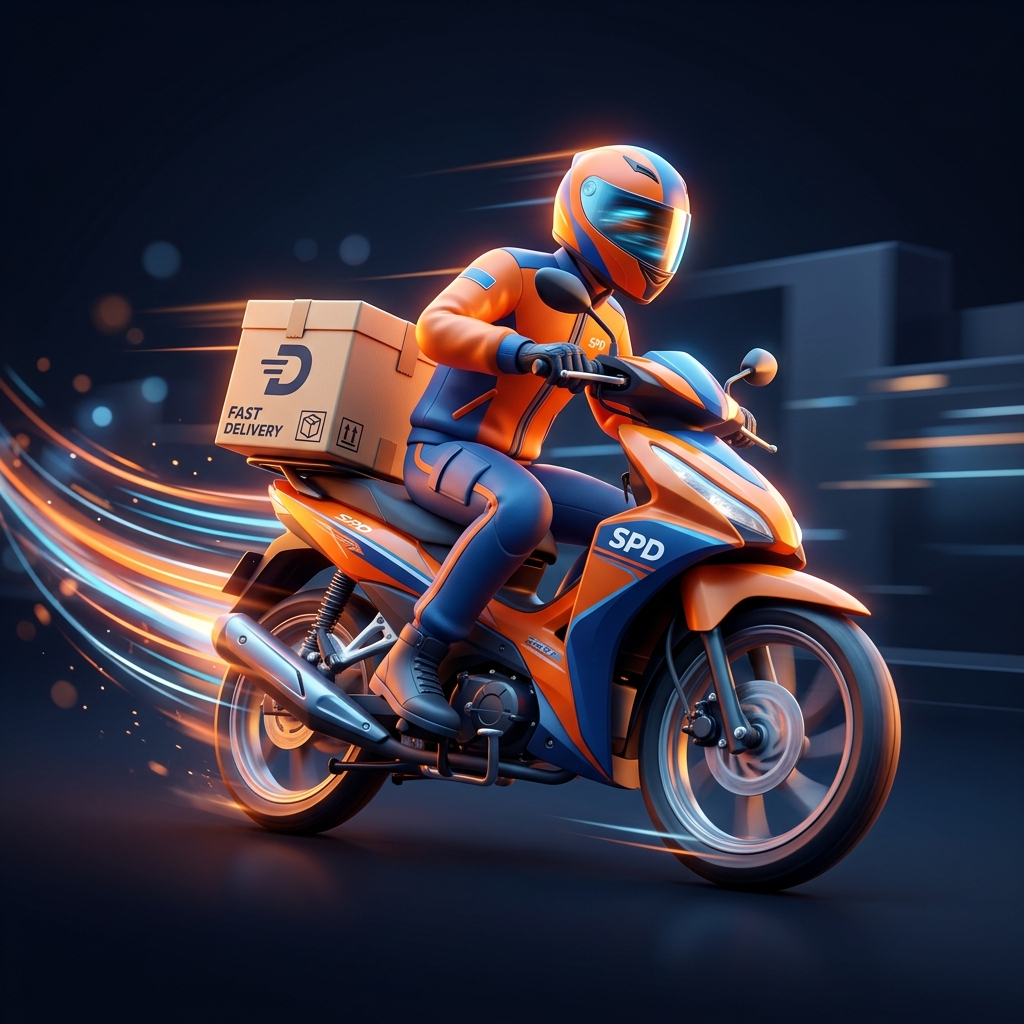
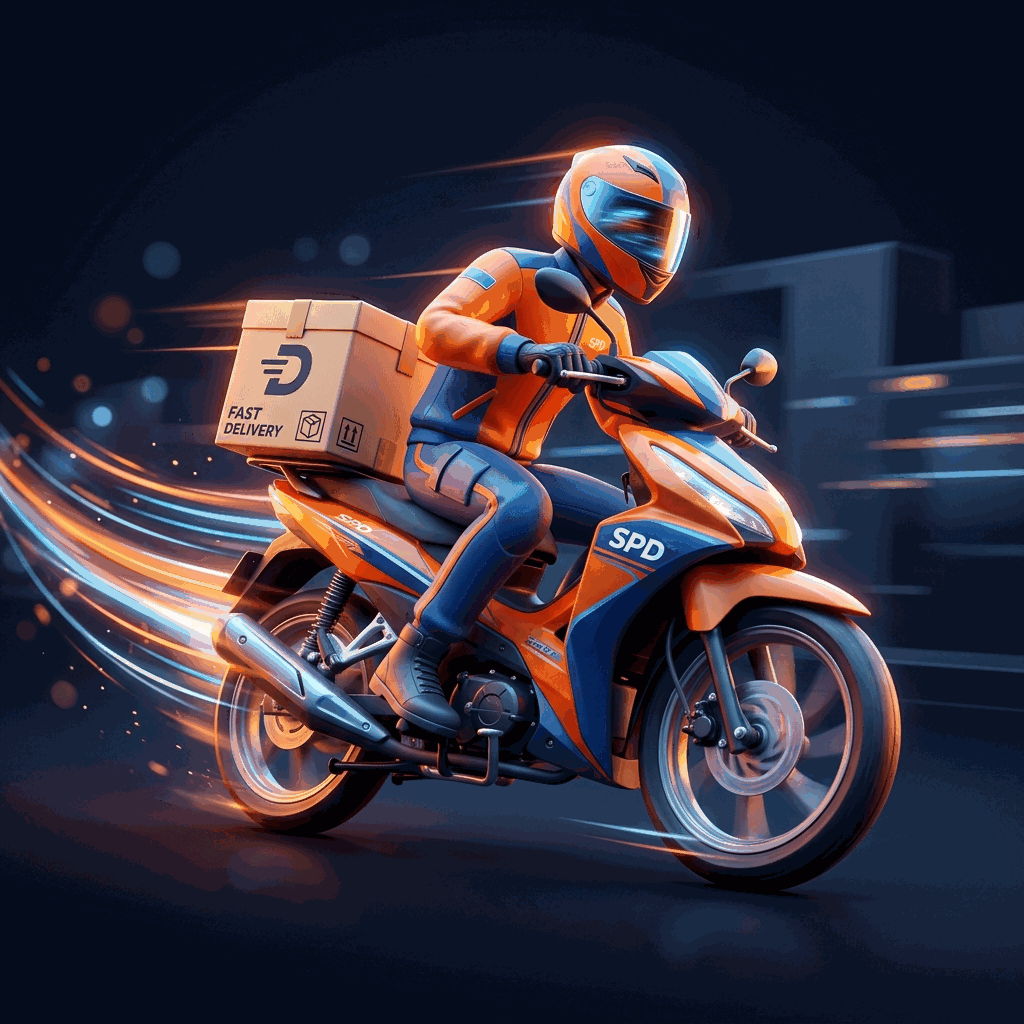
fix: optimize Engineered for Trust card images — compact 16:9 aspect ratio, refined overlay and spacing

diff --git a/app/page.tsx b/app/page.tsx
@@ -233,26 +233,26 @@ export default async function HomePage() {
 
             <div className="grid md:grid-cols-3 gap-6 md:gap-8">
               {features.map((f, i) => (
-                <Card key={i} className="border border-stone-200/80 shadow-md hover:shadow-xl rounded-2xl p-5 bg-white group hover:-translate-y-1.5 transition-all duration-300 flex flex-col justify-between relative overflow-hidden">
-                  <div className="space-y-4">
-                    {/* Avatar Image Box */}
-                    <div className="relative w-full aspect-[4/3] rounded-xl overflow-hidden bg-stone-900 border border-stone-200/60 shadow-inner group-hover:scale-[1.02] transition-transform duration-500">
+                <Card key={i} className="border border-stone-200/80 shadow-md hover:shadow-xl rounded-2xl p-4 md:p-5 bg-white group hover:-translate-y-1.5 transition-all duration-300 flex flex-col justify-between relative overflow-hidden">
+                  <div className="space-y-3.5">
+                    {/* Compact Image Box */}
+                    <div className="relative w-full aspect-[16/9] rounded-xl overflow-hidden bg-stone-900 border border-stone-200/60 shadow-inner group-hover:scale-[1.01] transition-transform duration-500">
                       <Image
                         src={f.image}
                         alt={f.title}
                         fill
                         className="object-cover group-hover:scale-105 transition-transform duration-700"
                       />
-                      <div className="absolute inset-0 bg-gradient-to-t from-stone-950/60 via-transparent to-transparent" />
-                      <div className="absolute bottom-3 left-3">
+                      <div className="absolute inset-0 bg-gradient-to-t from-stone-950/70 via-stone-950/20 to-transparent" />
+                      <div className="absolute bottom-2.5 left-2.5">
                         <span className={`text-[10px] font-extrabold uppercase tracking-widest px-2.5 py-1 rounded-full border backdrop-blur-md shadow-xs ${f.badgeColor}`}>
                           {f.badge}
                         </span>
                       </div>
                     </div>
 
-                    <div className="space-y-1.5 pt-1">
-                      <h3 className="text-lg font-black text-stone-900 tracking-tight">{f.title}</h3>
+                    <div className="space-y-1 pt-0.5">
+                      <h3 className="text-base md:text-lg font-black text-stone-900 tracking-tight">{f.title}</h3>
                       <p className="text-stone-600 text-xs leading-relaxed font-medium">{f.desc}</p>
                     </div>
                   </div>
